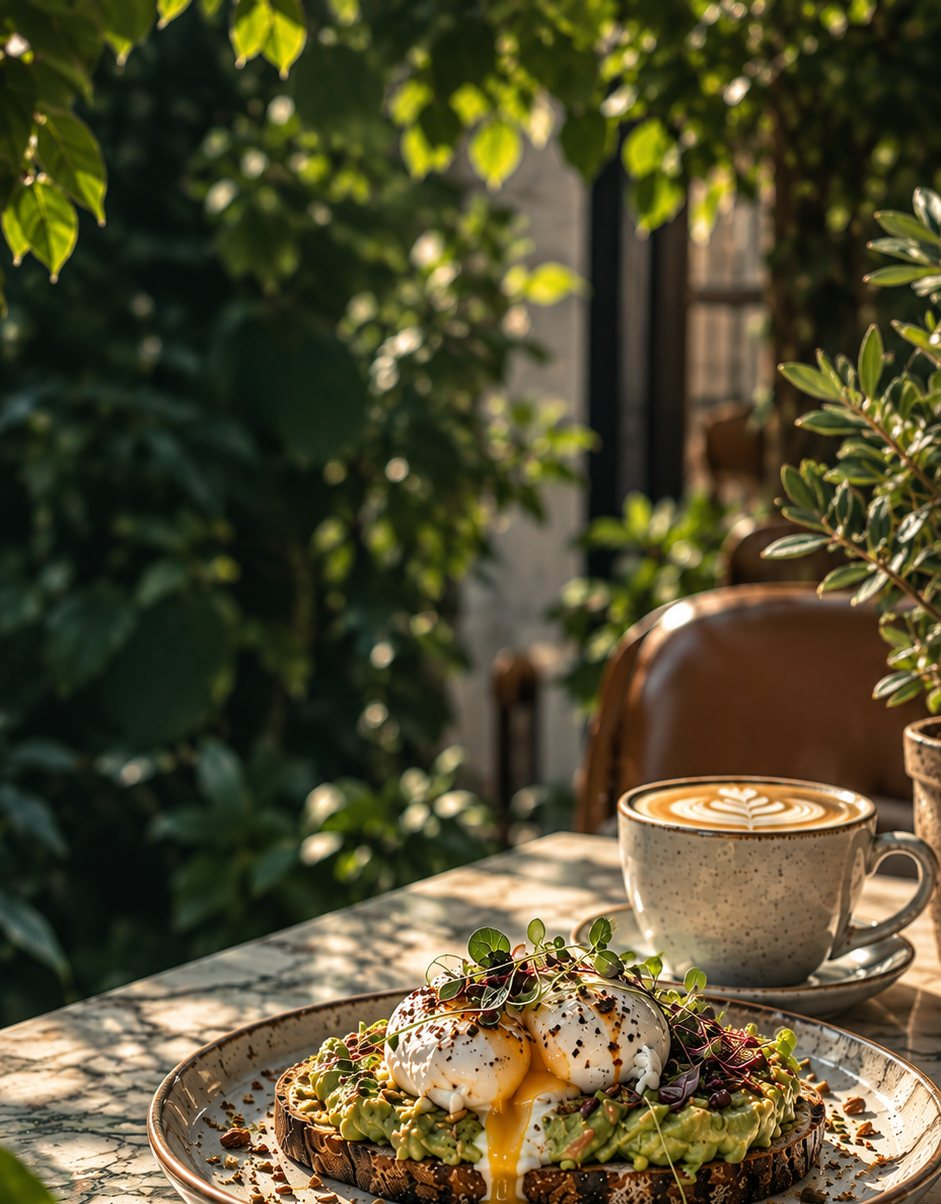
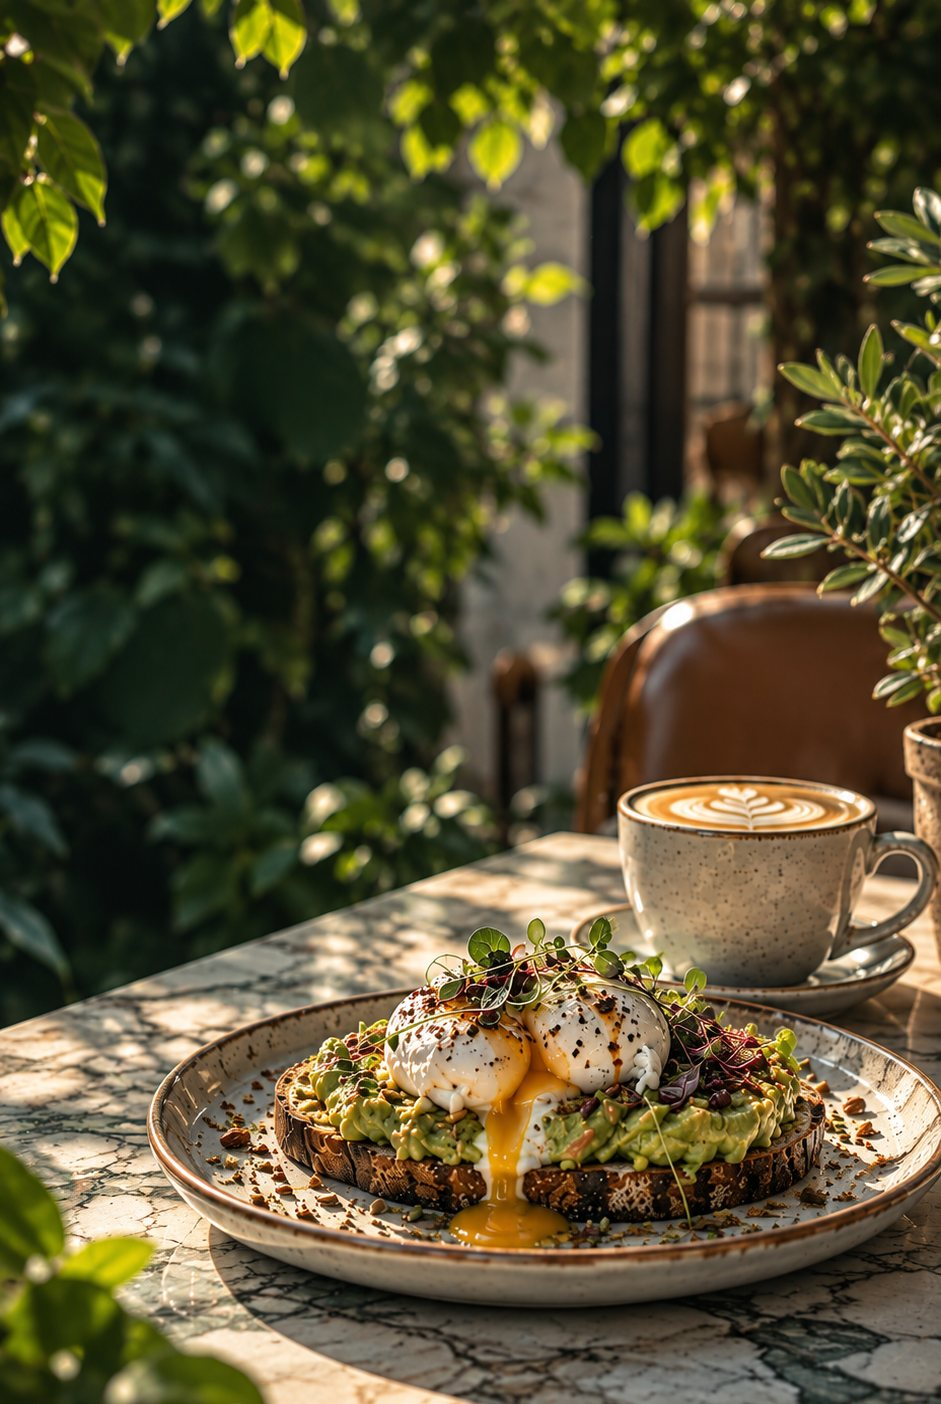
Leaf: opening hours, legal links, Lumin Labs credit, uncut plate
OPENING HOURS. build-shop.js gains an {{openingHoursRows}} token that renders
config.hours as rows, grouping consecutive days that share windows, so Leaf
prints "Mon – Thu 8am – 4pm" rather than seven lines. It fills the "Opening
hours" entry in the order band, which the nav's #hours link already pointed at
and which previously read "Breakfast · Lunch · Bistro evenings" — not hours at
all. Driven from config, so it can never be a second copy that drifts.

⚠ LEAF'S CONFIGURED HOURS ARE INVENTED. config.json has said so since the shop
was scaffolded; they were a placeholder shaped around "breakfast, lunch, bistro
evenings". They are now PRINTED ON THE PAGE, so they must be replaced with the
owner's real hours before prelaunch comes off. The site is still noindex.

Verified the token is additive: ricos, food-station, mega-chippy and tad-kebab
all build and none of them renders a row, because none references the token.

LEGAL PAGES. privacy, terms and allergy-info were already being built for every
shop — Leaf's footer just never linked them. Added, using the same extensionless
paths the legal pages use between themselves.

CREDIT. "Developed by Lumin Labs" linking to luminlabs.co.uk, copied from
templates/landing-default.html so it matches the other shops.

PLATE NO LONGER CUT. The source crop was 0.72 of the file's height and the plate
ends at 0.78 — it was being cropped through. Back to 0.84, which clears it with
[…]

diff --git a/data/shops/leaf-cafe/index.html b/data/shops/leaf-cafe/index.html
@@ -378,6 +378,16 @@
       margin: 0; color: rgb(255 249 235 / 76%); font-family: var(--serif);
       font-size: 16px; font-style: normal; line-height: 1.5;
     }
+    /* Capped, or the day and its time sit at opposite ends of a very wide
+       column with a stretch of nothing between them. */
+    .hours-table { display: grid; gap: 6px; max-width: 330px; }
+    .hours-row {
+      display: flex; justify-content: space-between; gap: 20px;
+      color: rgb(255 249 235 / 78%); font-family: var(--serif); font-size: 15px;
+    }
+    .hours-row span:first-child { color: rgb(255 249 235 / 55%); }
+    .hours-row.is-closed span:last-child { opacity: .55; }
+
     .detail-link {
       display: inline-block; margin-top: 16px; padding-bottom: 8px;
       border-bottom: 1px solid rgb(213 181 115 / 55%); color: var(--gold-pale);
@@ -395,9 +405,15 @@
        the 150px CSS width and the wordmark renders stretched tall. */
     footer > img { width: 150px; height: auto; }
     .footer-links {
-      display: flex; gap: 30px;
+      display: flex; flex-wrap: wrap; justify-content: center; gap: 12px 26px;
       font-size: 8px; font-weight: 650; letter-spacing: .14em; text-transform: uppercase;
     }
+    .footer-links a { transition: color .2s ease; }
+    .footer-links a:hover { color: var(--gold-pale); }
+    /* Its own line under the address, so the credit reads as a credit rather
+       than as part of the shop's own details. */
+    .footer-credit { display: block; margin-top: 7px; color: rgb(255 249 235 / 45%); }
+    .footer-credit a { color: var(--gold-pale); border-bottom: 1px solid rgb(213 181 115 / 45%); }
     footer > p { justify-self: end; margin: 0; font-size: 8px; letter-spacing: .1em; text-transform: uppercase; }
 
     .button, .text-link, .detail-link { transition: opacity .2s ease, background .2s ease; }
@@ -537,7 +553,14 @@
       /* Top-aligned, not centred. .hero is a centred flex column, so trimming
          the top padding just re-centred the block and moved nothing; pinning it
          to the top is what actually lifts the copy off the plate. */
-      .hero { justify-content: flex-start; padding: 112px 6vw 64px; }
+      /* Its own floor here. The shared min(76svh, 820px) came out at 684px on a
+         phone, and the plate sits at a fixed fraction of the hero's height, so
+         the only way to get daylight between the buttons and the food is to
+         make the band itself taller. */
+      .hero {
+        justify-content: flex-start; min-height: min(88svh, 780px);
+        padding: 106px 6vw 96px;
+      }
       h1 { font-size: clamp(32px, 8.9vw, 44px); }
       .hero-strap { gap: 8px; font-size: 9px; letter-spacing: .11em; }
       .eyebrow { font-size: 10px; margin-bottom: 12px; }
@@ -724,7 +747,11 @@
       <div id="hours">
         <p class="detail-label">Opening hours</p>
         <div>
-          <p>Breakfast · Lunch · Bistro evenings</p>
+          <!-- Rendered by build-shop.js from config.hours, so this is never a
+               second copy of the times that can drift from the real one. -->
+          <div class="hours-table">
+{{openingHoursRows}}
+          </div>
           <a class="detail-link" href="/order">Order online →</a>
         </div>
       </div>
@@ -743,9 +770,16 @@
       <a href="#menus">Menus</a>
       <a href="#visit">Visit</a>
       <a href="/order">Order</a>
+      <a href="/privacy">Privacy</a>
+      <a href="/terms">Terms</a>
+      <a href="/allergy-info">Allergy info</a>
       <a href="#home">Back to top ↑</a>
     </div>
-    <p>{{shopName}} · {{shopAddressLine1}}, {{shopCity}}</p>
+    <p>
+      {{shopName}} · {{shopAddressLine1}}, {{shopCity}}
+      <span class="footer-credit">Developed by
+        <a href="https://luminlabs.co.uk" target="_blank" rel="noopener">Lumin Labs</a></span>
+    </p>
   </footer>
 </main>
 <script>

diff --git a/scripts/build-shop.js b/scripts/build-shop.js
@@ -629,6 +629,50 @@ function buildSeoHead() {
   ].join('\n');
 }
 
+/* Opening hours as ready-to-drop rows, grouped so consecutive days that share
+   the same windows print as one line ("Mon - Thu"). Shops that never reference
+   {{openingHoursRows}} in their landing page are unaffected — the token is
+   simply built and not used. */
+function buildOpeningHoursRows() {
+  // Local, because buildSeoHead's esc is scoped inside that function.
+  const esc = (v) => String(v).replace(/&/g, '&amp;').replace(/</g, '&lt;')
+    .replace(/>/g, '&gt;').replace(/"/g, '&quot;');
+  const ORDER = ['monday', 'tuesday', 'wednesday', 'thursday', 'friday', 'saturday', 'sunday'];
+  const LABEL = { monday: 'Monday', tuesday: 'Tuesday', wednesday: 'Wednesday',
+                  thursday: 'Thursday', friday: 'Friday', saturday: 'Saturday', sunday: 'Sunday' };
+  const SHORT = { monday: 'Mon', tuesday: 'Tue', wednesday: 'Wed', thursday: 'Thu',
+                  friday: 'Fri', saturday: 'Sat', sunday: 'Sun' };
+  const hours = config.hours || {};
+  // "08:00" -> "8am", "17:30" -> "5.30pm", "25:00" -> "1am" (past-midnight close).
+  const t = (v) => {
+    const [rawH, m] = String(v).split(':').map(Number);
+    const h24 = rawH % 24;
+    const suffix = h24 >= 12 ? 'pm' : 'am';
+    const h = h24 % 12 === 0 ? 12 : h24 % 12;
+    return m ? `${h}.${String(m).padStart(2, '0')}${suffix}` : `${h}${suffix}`;
+  };
+  const textFor = (key) => {
+    const d = hours[key];
+    if (!d || d.closed || !Array.isArray(d.windows) || !d.windows.length) return 'Closed';
+    return d.windows.map((w) => `${t(w.open)} – ${t(w.close)}`).join(', ');
+  };
+
+  const groups = [];
+  for (const key of ORDER) {
+    const text = textFor(key);
+    const last = groups[groups.length - 1];
+    if (last && last.text === text) last.days.push(key);
+    else groups.push({ days: [key], text });
+  }
+  return groups.map(({ days, text }) => {
+    const label = days.length === 1
+      ? LABEL[days[0]]
+      : `${SHORT[days[0]]} – ${SHORT[days[days.length - 1]]}`;
+    const closed = text === 'Closed' ? ' is-closed' : '';
+    return `      <div class="hours-row${closed}"><span>${esc(label)}</span><span>${esc(text)}</span></div>`;
+  }).join('\n');
+}
+
 const tokens = {
   shopName:                config.business.tradingName || '',
   shopShortName:           config.business.shortName || config.business.tradingName || '',
@@ -688,6 +732,8 @@ const tokens = {
   promoTagline:            (promo && promo.enabled) ? ` ${promo.percent}% off online orders${promoMinText}.` : '',
   // Landing-page SEO <head>: JSON-LD Restaurant schema + canonical + OG/Twitter.
   seoHead:                 buildSeoHead(),
+  // Opening hours rows for shops whose landing page shows them.
+  openingHoursRows:        buildOpeningHoursRows(),
 };
 
 // Source HTML / manifest files with {{tokens}}. The build reads each from

diff --git a/tools/_gen-leaf-brand.py b/tools/_gen-leaf-brand.py
@@ -117,7 +117,7 @@ def main():
             # frame proportionally, which is what keeps it clear of the stacked
             # buttons above it; it also drops the dead marble. Tuned against the measured
             # gap between the buttons and the plate, not by eye.
-            shot = shot.crop((0, 0, shot.width, round(shot.height * 0.72)))
+            shot = shot.crop((0, 0, shot.width, round(shot.height * 0.84)))
         for ext, kw in (('jpg', dict(quality=84, progressive=True)),
                         ('webp', dict(quality=80, method=6))):
             p = os.path.join(SHOP, 'assets', out_stem + '.' + ext)
